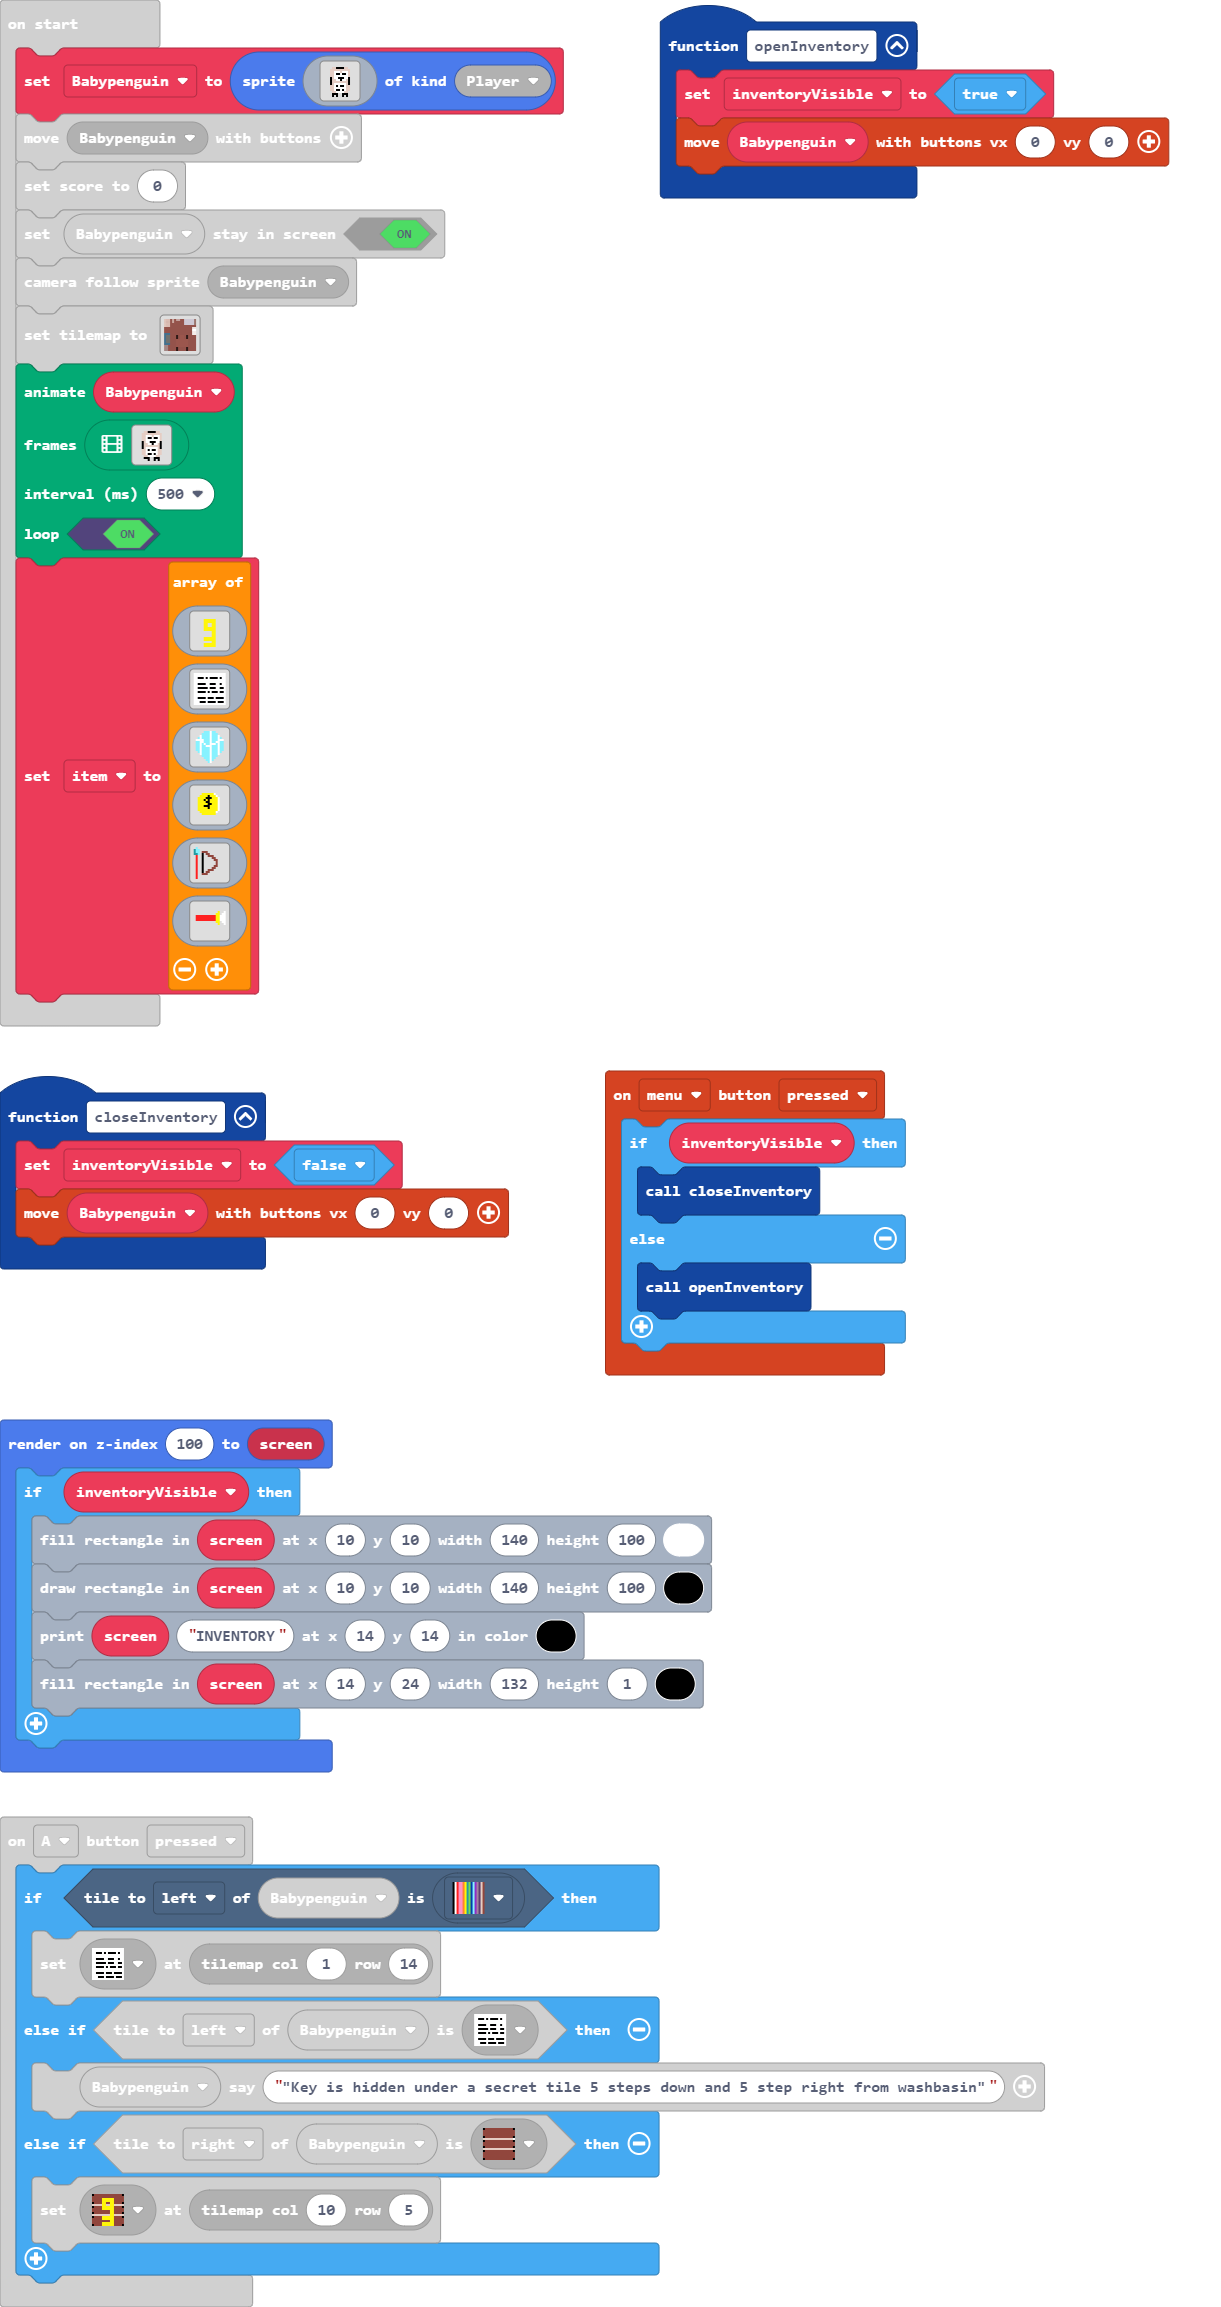
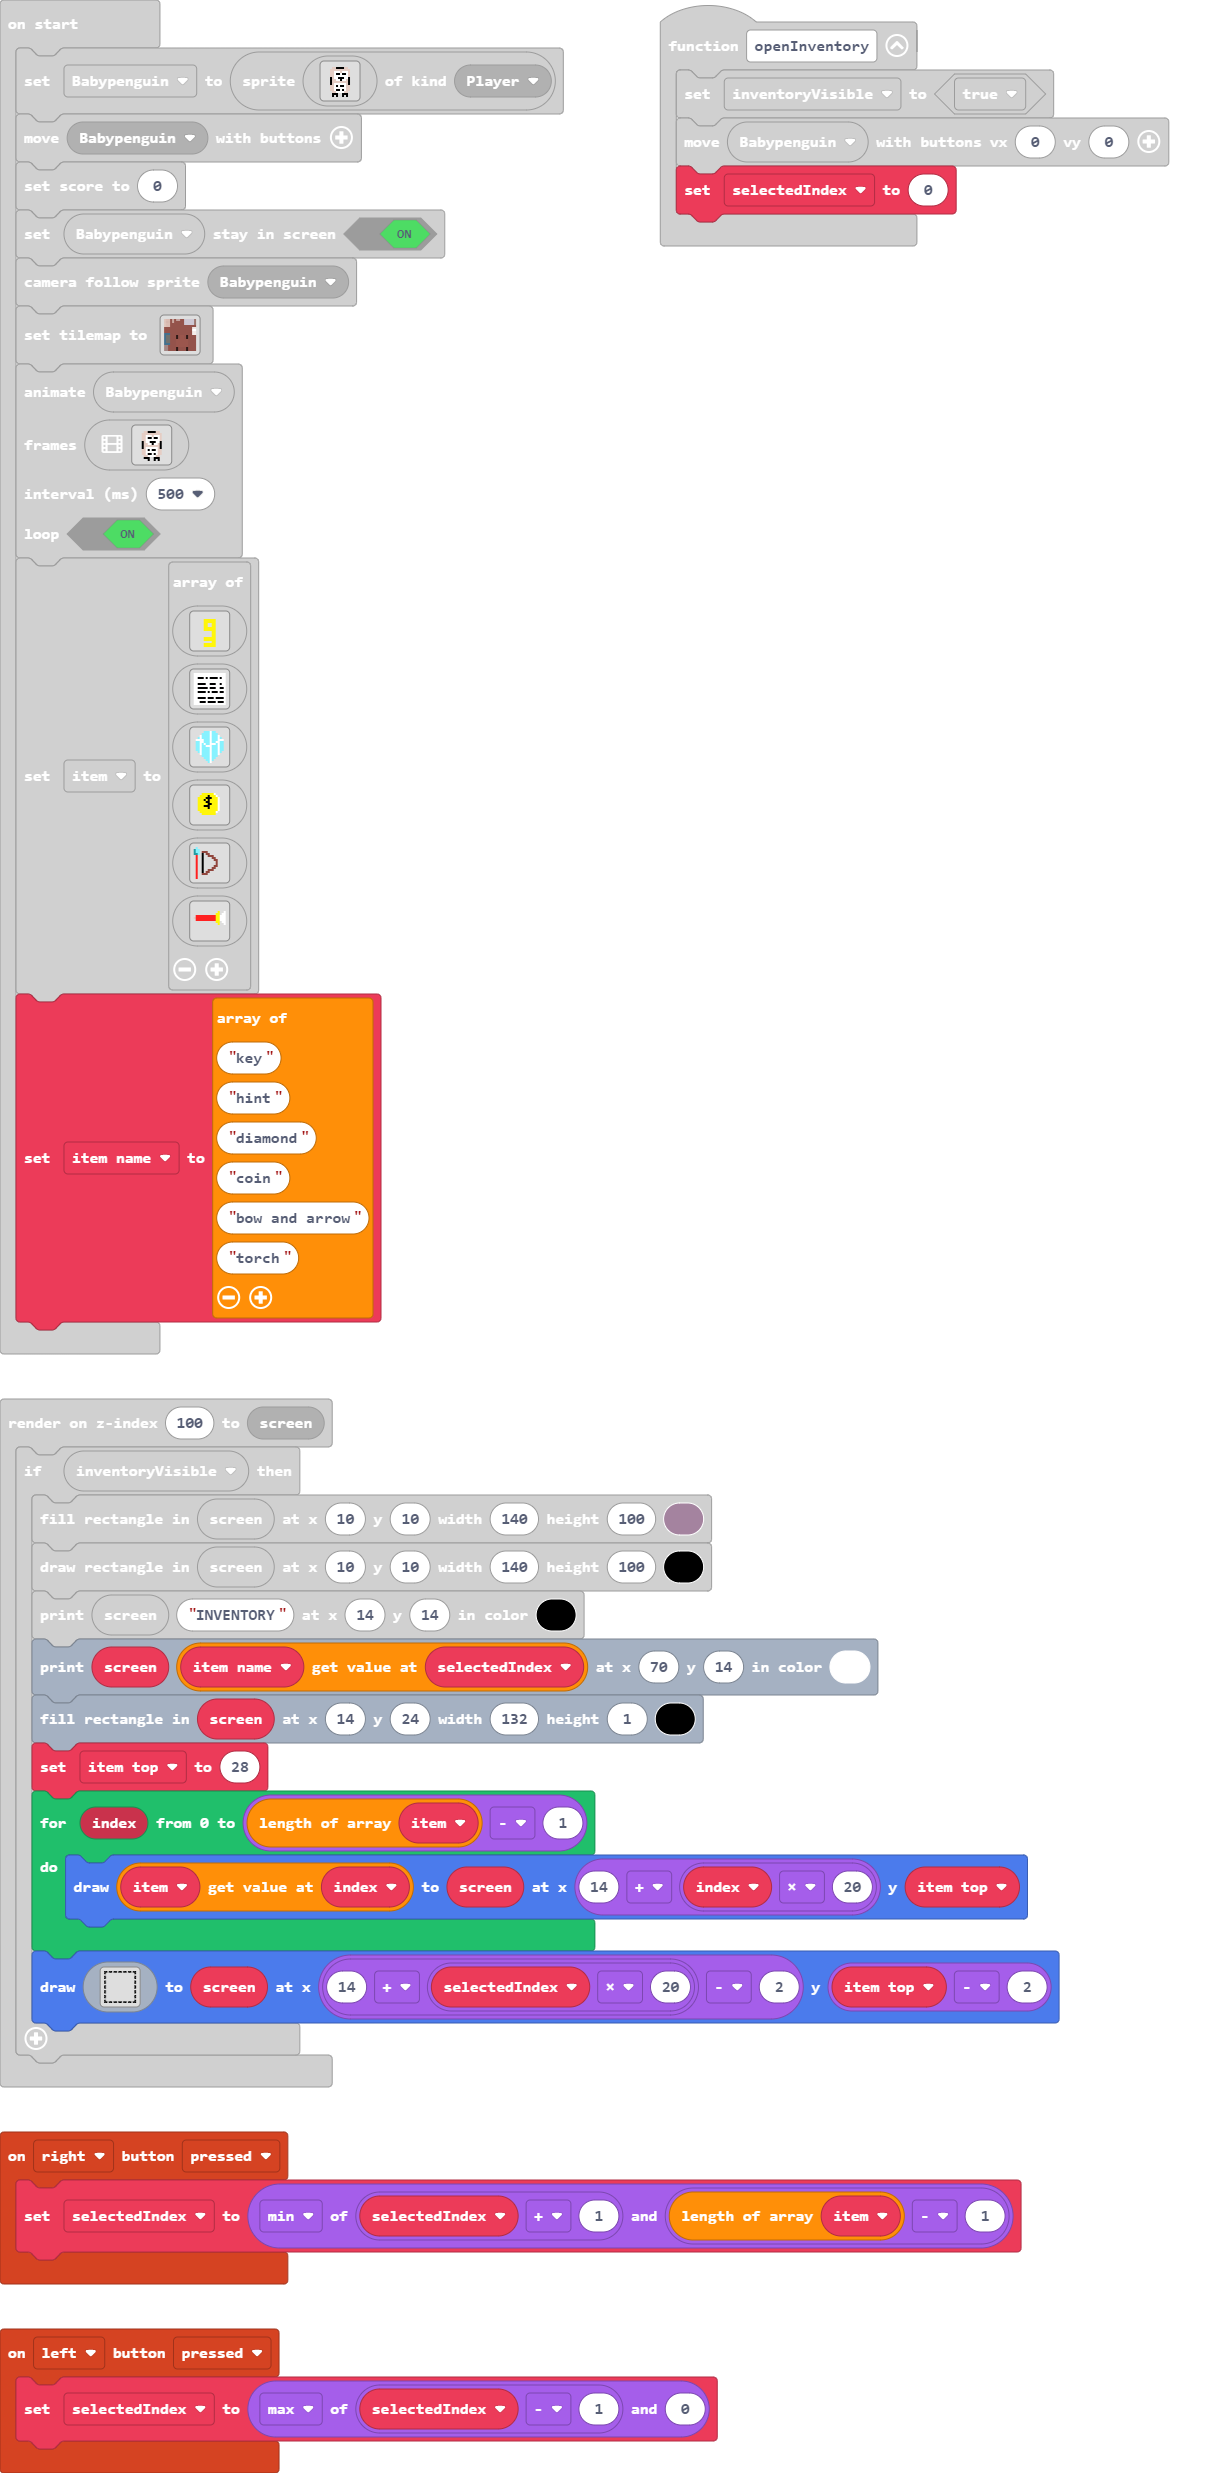
Update main.blocks, main.ts, images.g.jres, images.g.ts

diff --git a/main.ts b/main.ts
@@ -14,6 +14,12 @@ controller.A.onEvent(ControllerButtonEvent.Pressed, function () {
         tiles.setTileAt(tiles.getTileLocation(10, 5), assets.tile`myTile25`)
     }
 })
+controller.left.onEvent(ControllerButtonEvent.Pressed, function () {
+    selectedIndex = Math.max(selectedIndex - 1, 0)
+})
+controller.right.onEvent(ControllerButtonEvent.Pressed, function () {
+    selectedIndex = Math.min(selectedIndex + 1, item.length - 1)
+})
 controller.menu.onEvent(ControllerButtonEvent.Pressed, function () {
     if (inventoryVisible) {
         closeInventory()
@@ -24,16 +30,48 @@ controller.menu.onEvent(ControllerButtonEvent.Pressed, function () {
 function openInventory () {
     inventoryVisible = true
     controller.moveSprite(Babypenguin, 0, 0)
+    selectedIndex = 0
 }
 spriteutils.createRenderable(100, function (screen2) {
     if (inventoryVisible) {
-        screen2.fillRect(10, 10, 140, 100, 1)
+        screen2.fillRect(10, 10, 140, 100, 11)
         screen2.drawRect(10, 10, 140, 100, 15)
         images.print(screen2, "INVENTORY", 14, 14, 15)
+        images.print(screen2, item_name[selectedIndex], 70, 14, 1)
         screen2.fillRect(14, 24, 132, 1, 15)
+        item_top = 28
+        for (let index = 0; index <= item.length - 1; index++) {
+            spriteutils.drawTransparentImage(item[index], screen2, 14 + index * 20, item_top)
+        }
+        spriteutils.drawTransparentImage(img`
+            ff.ff.ff.ff.ff.ff.ff
+            f..................f
+            ....................
+            f..................f
+            f..................f
+            ....................
+            f..................f
+            f..................f
+            ....................
+            f..................f
+            f..................f
+            ....................
+            f..................f
+            f..................f
+            ....................
+            f..................f
+            f..................f
+            ....................
+            f..................f
+            ff.ff.ff.ff.ff.ff.ff
+            `, screen2, 14 + selectedIndex * 20 - 2, item_top - 2)
     }
 })
+let item_top = 0
+let selectedIndex = 0
 let inventoryVisible = false
+let item_name: string[] = []
+let item: Image[] = []
 let Babypenguin: Sprite = null
 Babypenguin = sprites.create(img`
     . . . . . . . . . . . . . . . . 
@@ -98,7 +136,7 @@ Babypenguin,
 500,
 true
 )
-let item = [
+item = [
 assets.tile`myTile29`,
 assets.tile`myTile28`,
 img`
@@ -162,7 +200,7 @@ img`
     . . . . . . . . . . . . 5 . . 1 
     . . . . . . . . . . . 5 5 . 1 1 
     . 2 2 2 2 2 2 2 2 2 2 5 5 1 1 1 
-    . 2 2 2 2 2 2 2 2 2 2 5 5 1 1 1 
+    d 2 2 2 2 2 2 2 2 2 2 5 5 1 1 1 
     . 2 2 2 2 2 2 2 2 2 2 5 5 1 1 1 
     . . . . . . . . . . . 5 5 . 1 1 
     . . . . . . . . . . . . 5 . . 1 
@@ -173,4 +211,12 @@ img`
     . . . . . . . . . . . . . . . . 
     . . . . . . . . . . . . . . . . 
     `
+]
+item_name = [
+"key",
+"hint",
+"diamond",
+"coin",
+"bow and arrow",
+"torch"
 ]

diff --git a/images.g.ts b/images.g.ts
@@ -82,7 +82,7 @@ namespace myImages {
 . . . . . . . . . . . . 5 . . 1 
 . . . . . . . . . . . 5 5 . 1 1 
 . 2 2 2 2 2 2 2 2 2 2 5 5 1 1 1 
-. 2 2 2 2 2 2 2 2 2 2 5 5 1 1 1 
+d 2 2 2 2 2 2 2 2 2 2 5 5 1 1 1 
 . 2 2 2 2 2 2 2 2 2 2 5 5 1 1 1 
 . . . . . . . . . . . 5 5 . 1 1 
 . . . . . . . . . . . . 5 . . 1 
@@ -92,6 +92,28 @@ namespace myImages {
 . . . . . . . . . . . . . . . . 
 . . . . . . . . . . . . . . . . 
 . . . . . . . . . . . . . . . . 
+`;
+            case "image1":return img`
+ff.ff.ff.ff.ff.ff.ff
+f..................f
+....................
+f..................f
+f..................f
+....................
+f..................f
+f..................f
+....................
+f..................f
+f..................f
+....................
+f..................f
+f..................f
+....................
+f..................f
+f..................f
+....................
+f..................f
+ff.ff.ff.ff.ff.ff.ff
 `;
         }
         return null;
